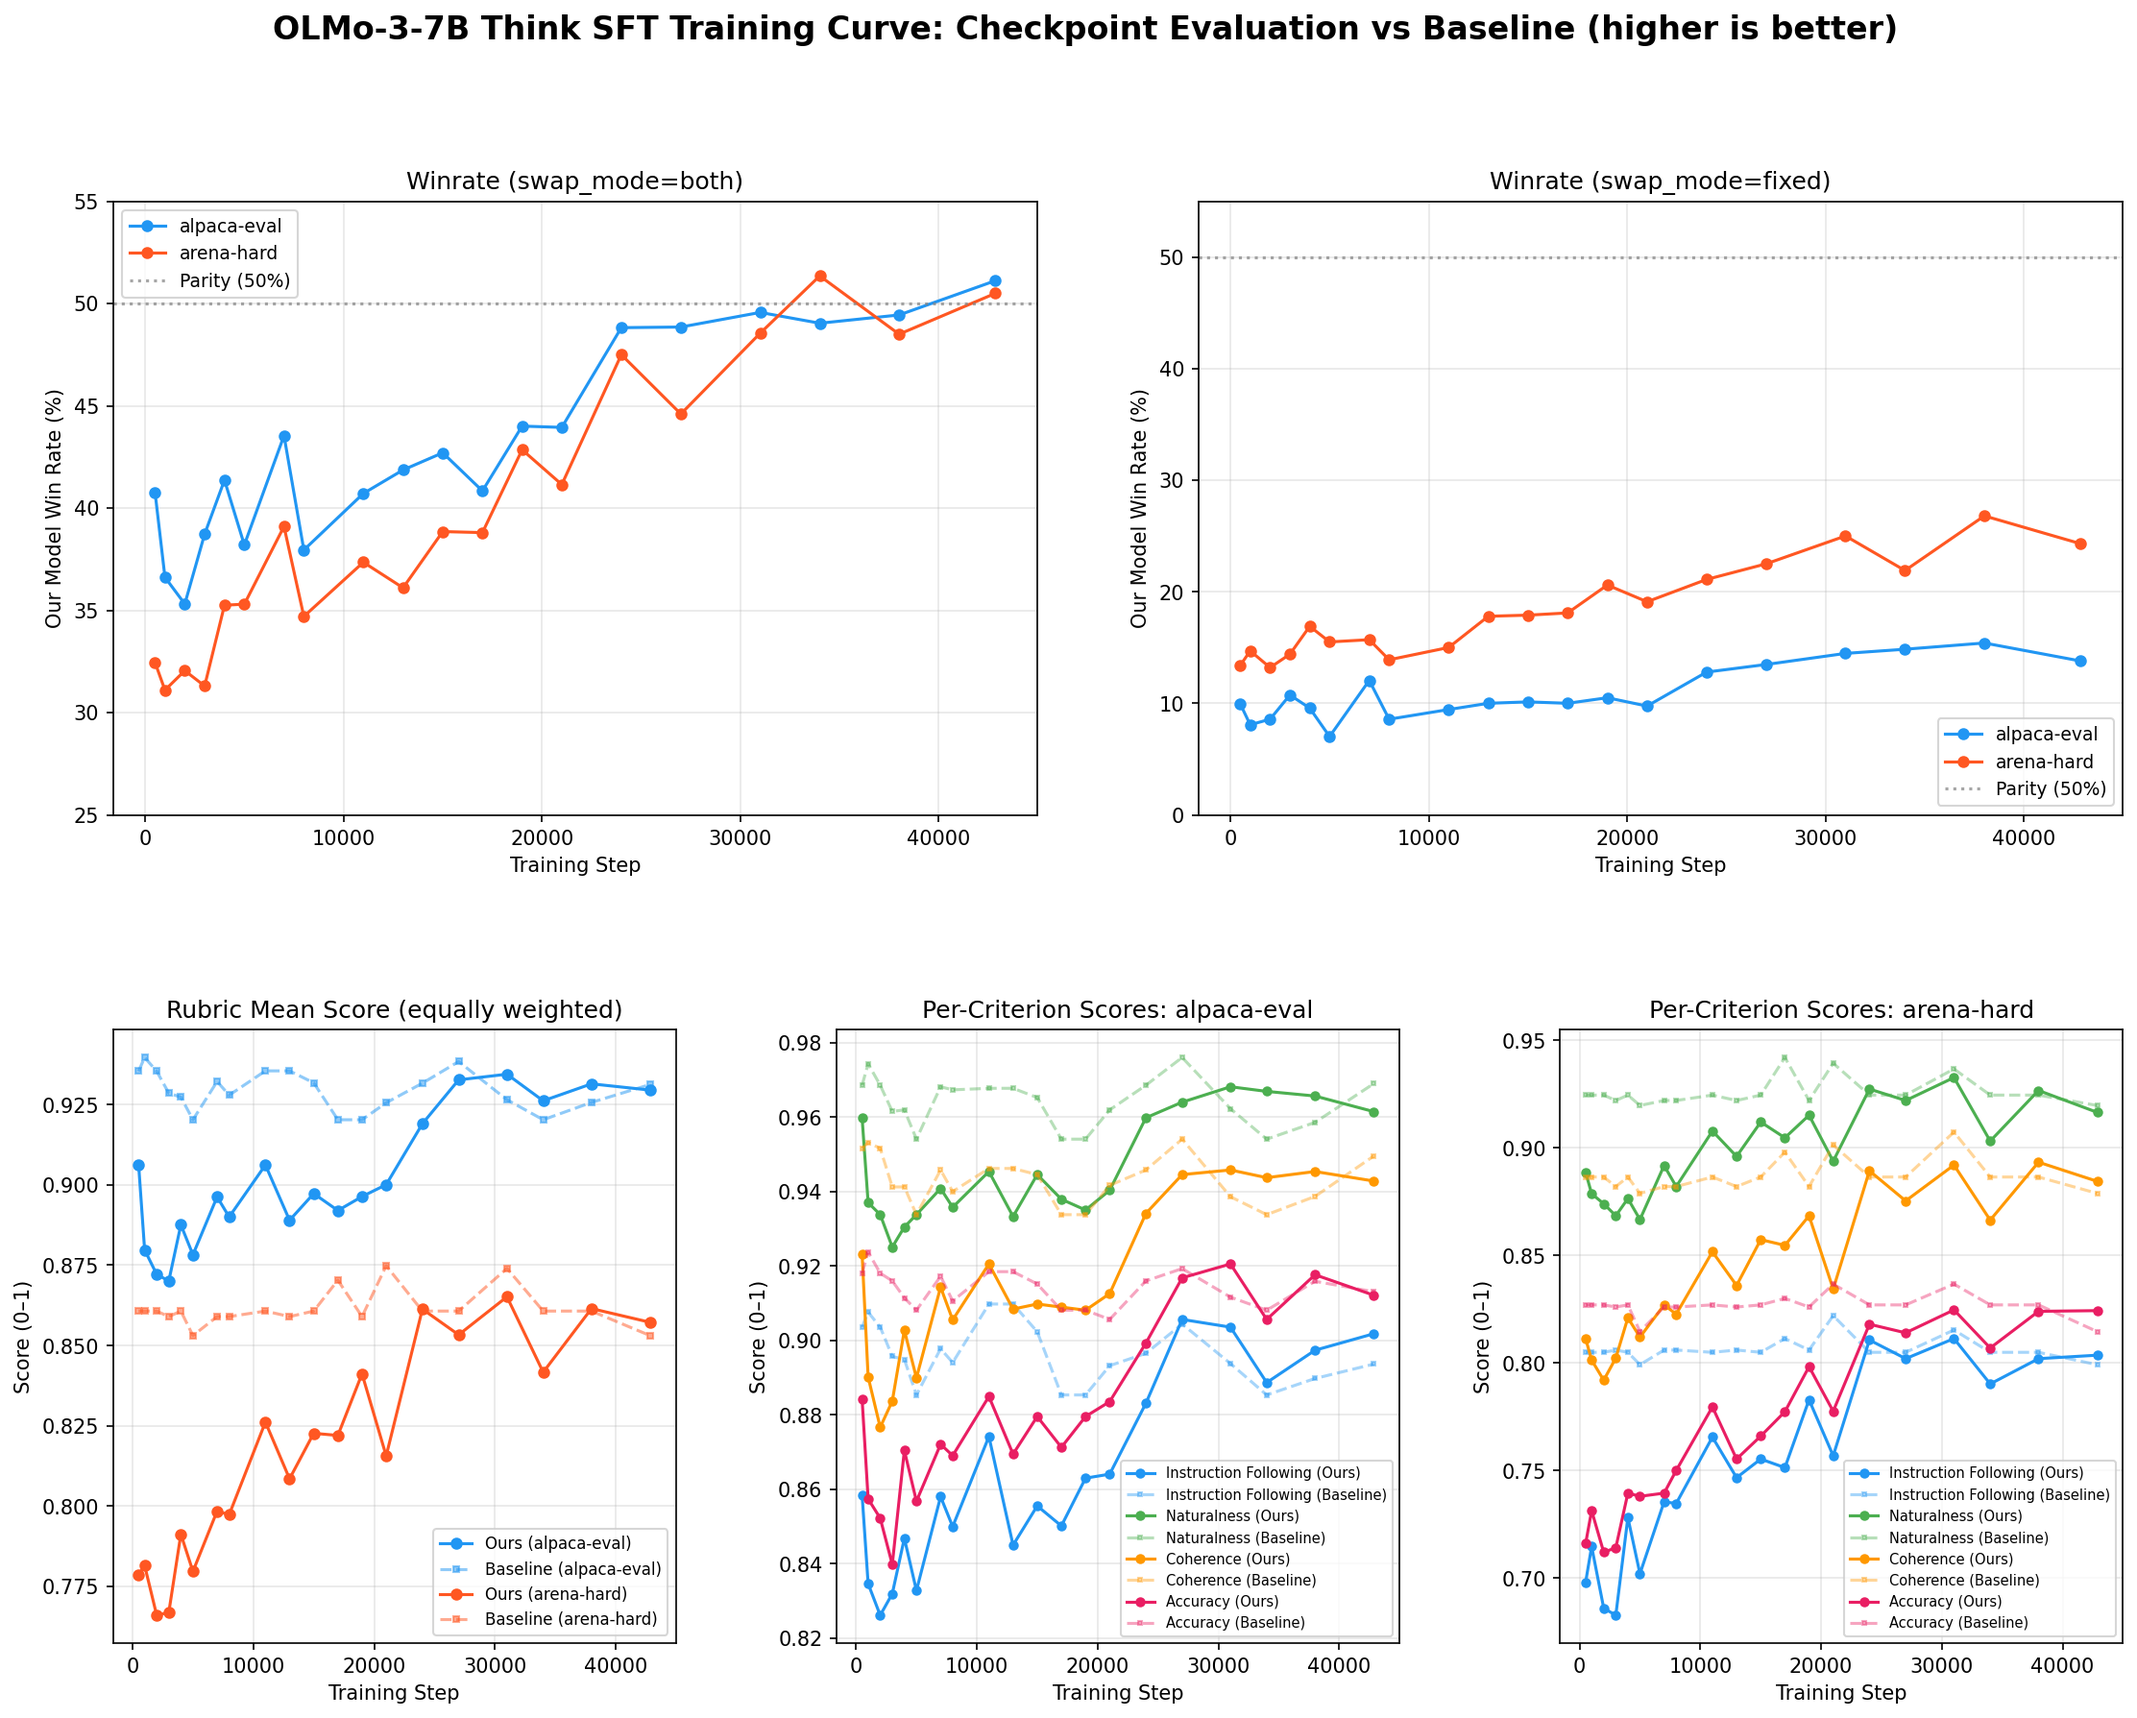
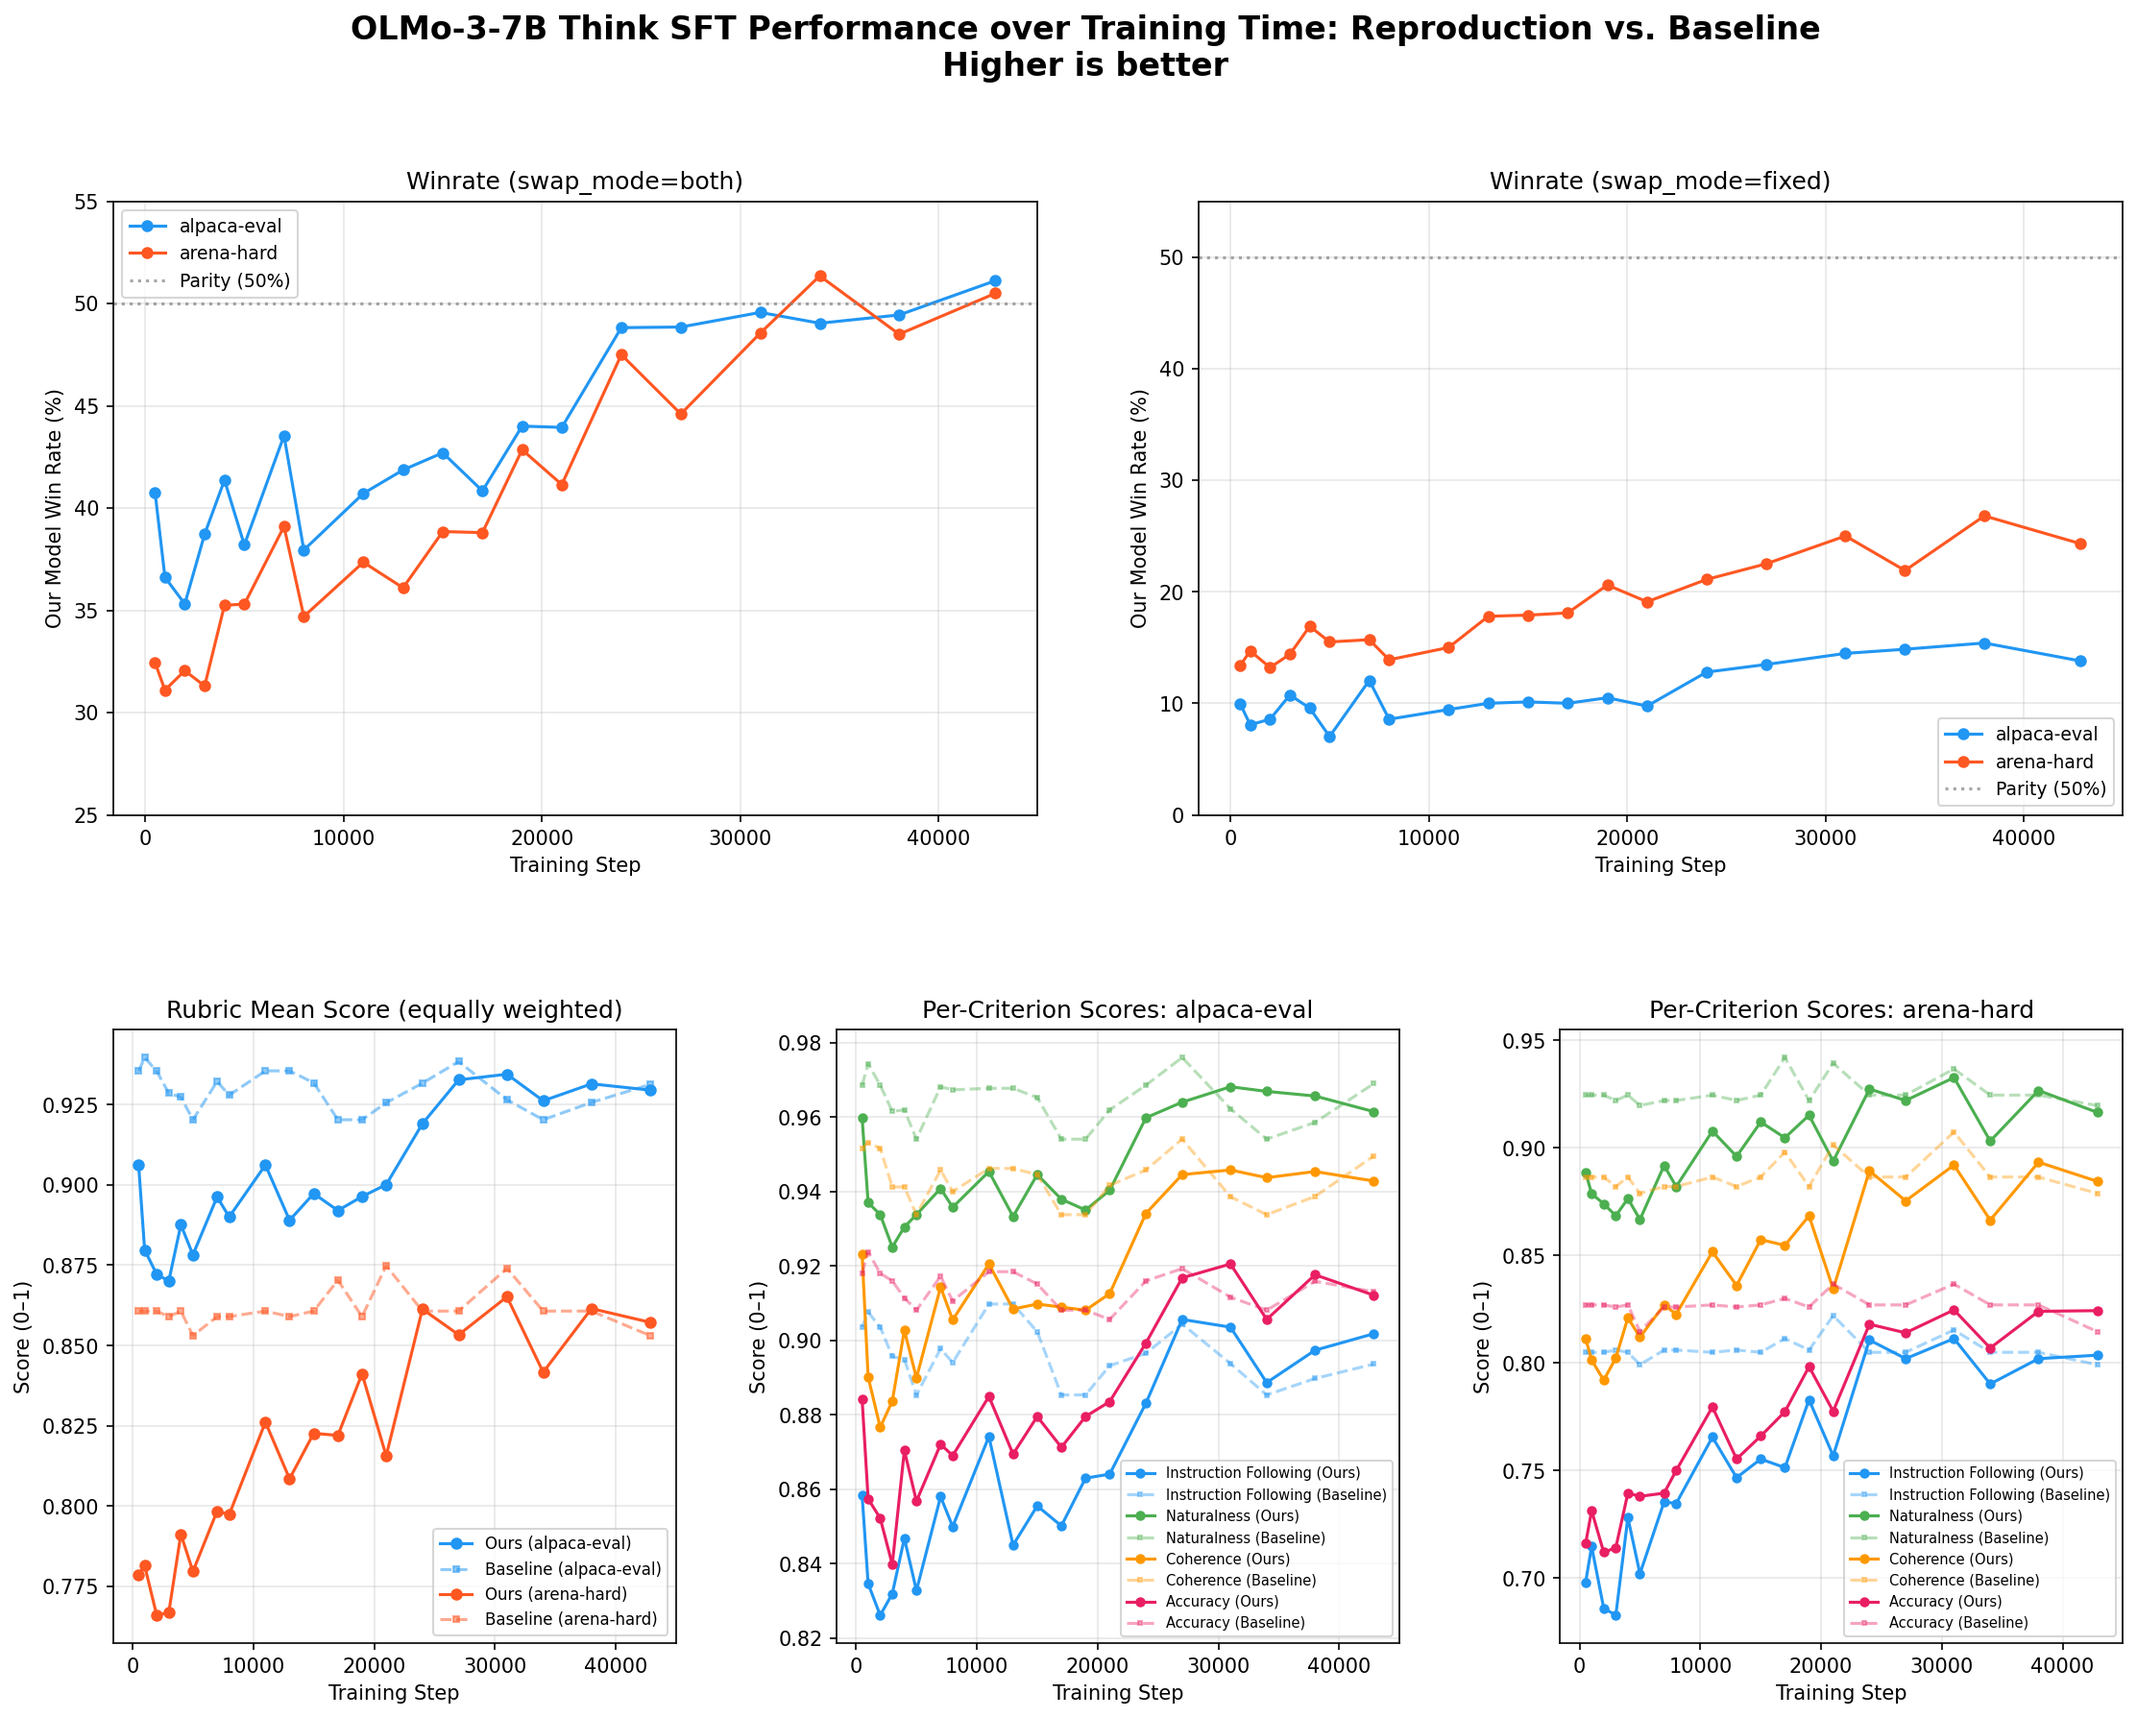
Update titles to 'Performance over Training Time: Reproduction vs. Baseline'
- Main plot: two-line title with 'Higher is better' subtitle
- Rubric plot: matching format
- eval_results.md heading updated to match

Changed region(s): [[0.124, 0.0, 0.8993, 0.0615]]

diff --git a/oellm/evaluations/eval_results.md b/oellm/evaluations/eval_results.md
@@ -148,7 +148,7 @@ show_rubric(
 
 ---
 
-## OLMo-3-7B Think SFT: Training Curve Evaluation
+## OLMo-3-7B Think SFT Performance over Training Time: Reproduction vs. Baseline
 
 | | |
 |---|---|
